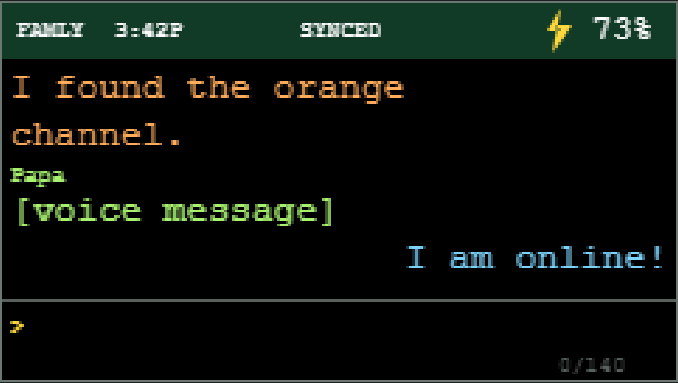
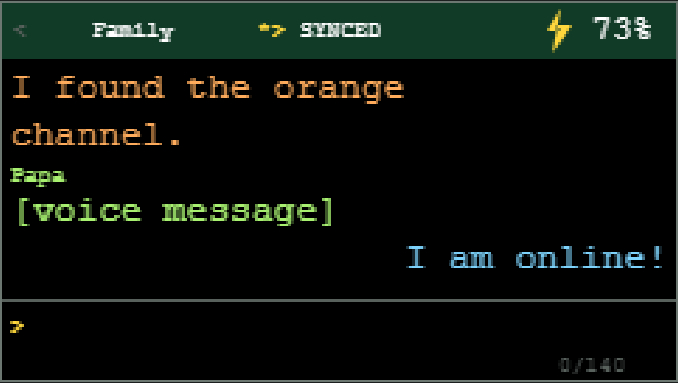
Add Cardputer room flipping and new-message indicators

Changed region(s): [[0.0, 0.0574, 0.2788, 0.1149], [0.3717, 0.0574, 0.4336, 0.1149]]

diff --git a/firmware/src/main.cpp b/firmware/src/main.cpp
@@ -165,7 +165,7 @@ struct ChatLine {
   bool mine;
   bool label;
 };
-struct ChatRoom { String id; String name; };
+struct ChatRoom { String id; String name; int64_t latestMessageId; int64_t seenMessageId; };
 
 uint32_t participantColour(const String &authorId, const String &authorName = "") {
   String identity = authorId + " " + authorName; identity.toLowerCase();
@@ -224,6 +224,7 @@ bool spacePttHeld = false;
 uint32_t spaceReleaseStartedAt = 0;
 bool walkieConnected = false;
 bool walkieInitialized = false;
+bool roomsInitialized = false;
 bool walkieGranted = false;
 bool audioPlaying = false;
 volatile bool messageNotificationPending = false;
@@ -1011,8 +1012,14 @@ void synchronize() {
   if (requestJson("/api/rooms", "GET", "", roomsResponse, roomsStatus) && roomsStatus == 200) {
     JsonDocument roomDocument;
     if (!deserializeJson(roomDocument, roomsResponse)) {
-      rooms.clear();
-      for (JsonObjectConst object : roomDocument["rooms"].as<JsonArrayConst>()) rooms.push_back({String(object["id"] | ""), String(object["name"] | "Room")});
+      std::vector<ChatRoom> nextRooms;
+      for (JsonObjectConst object : roomDocument["rooms"].as<JsonArrayConst>()) {
+        const String id = String(object["id"] | ""); const int64_t latest = object["latest_message_id"] | 0;
+        auto previous = std::find_if(rooms.begin(), rooms.end(), [&](const ChatRoom &room) { return room.id == id; });
+        const int64_t seen = previous != rooms.end() ? previous->seenMessageId : latest;
+        nextRooms.push_back({id, String(object["name"] | "Room"), latest, seen});
+      }
+      rooms = std::move(nextRooms); roomsInitialized = true;
       auto active = std::find_if(rooms.begin(), rooms.end(), [&](const ChatRoom &room) { return room.id == currentRoomId; });
       if (active == rooms.end() && !rooms.empty()) { currentRoomId = rooms[0].id; currentRoomName = rooms[0].name; }
       else if (active != rooms.end()) currentRoomName = active->name;
@@ -1052,6 +1059,8 @@ void synchronize() {
   for (const int64_t id : newlyRead) if (id > 0) postReadReceipt(id);
   networkStatus = "SYNCED"; renderDirty = true;
   initialSyncComplete = true;
+  auto activeRoom = std::find_if(rooms.begin(), rooms.end(), [&](const ChatRoom &room) { return room.id == currentRoomId; });
+  if (activeRoom != rooms.end()) activeRoom->seenMessageId = std::max(activeRoom->latestMessageId, lastServerId);
 }
 
 void networkTask(void *) {
@@ -1114,7 +1123,15 @@ void drawHeader(const char *title) {
 }
 
 void drawChat() {
-  auto &display = uiCanvas; display.fillScreen(TFT_BLACK); drawHeader(currentRoomName.substring(0, 5).c_str());
+  auto &display = uiCanvas; display.fillScreen(TFT_BLACK); drawHeader("");
+  int activeIndex = -1; for (int index = 0; index < static_cast<int>(rooms.size()); index++) if (rooms[index].id == currentRoomId) activeIndex = index;
+  const int leftIndex = rooms.size() > 1 && activeIndex >= 0 ? (activeIndex - 1 + rooms.size()) % rooms.size() : -1;
+  const int rightIndex = rooms.size() > 1 && activeIndex >= 0 ? (activeIndex + 1) % rooms.size() : -1;
+  const bool leftNew = leftIndex >= 0 && rooms[leftIndex].latestMessageId > rooms[leftIndex].seenMessageId;
+  const bool rightNew = rightIndex >= 0 && rooms[rightIndex].latestMessageId > rooms[rightIndex].seenMessageId;
+  display.setTextSize(1); display.setTextColor(leftNew ? TFT_YELLOW : TFT_DARKGREY, TFT_DARKGREEN); display.setCursor(4, 6); display.print(leftNew ? "<*" : "< ");
+  const String roomTitle = currentRoomName.substring(0, 10); display.setTextColor(TFT_WHITE, TFT_DARKGREEN); display.setCursor(50 - roomTitle.length() * 3, 6); display.print(roomTitle);
+  display.setTextColor(rightNew ? TFT_YELLOW : TFT_DARKGREY, TFT_DARKGREEN); display.setCursor(91, 6); display.print(rightNew ? "*>" : " >");
   xSemaphoreTake(stateMutex, portMAX_DELAY);
   const int end = std::max(0, static_cast<int>(messages.size()) - static_cast<int>(historyOffset));
   const int first = std::max(0, end - 10);
@@ -1359,6 +1376,15 @@ void openSelectedMenuItem() {
   renderDirty = true;
 }
 
+void switchRoom(int direction) {
+  if (rooms.size() < 2) return;
+  int active = 0; for (int index = 0; index < static_cast<int>(rooms.size()); index++) if (rooms[index].id == currentRoomId) active = index;
+  const int next = (active + direction + static_cast<int>(rooms.size())) % static_cast<int>(rooms.size());
+  currentRoomId = rooms[next].id; currentRoomName = rooms[next].name; roomSelection = next;
+  messages.clear(); lastServerId = 0; lastReceiptAt = 0; historyOffset = 0; syncOverride = true;
+  walkieSocket.disconnect(); walkieInitialized = false; networkStatus = "SWITCHING"; renderDirty = true;
+}
+
 void handleKeyboard() {
   if (!M5Cardputer.Keyboard.isChange() || !M5Cardputer.Keyboard.isPressed()) return;
   const auto keys = M5Cardputer.Keyboard.keysState();
@@ -1423,7 +1449,8 @@ void handleKeyboard() {
     xSemaphoreGive(stateMutex); playNextTone(); renderDirty = true; return;
   }
   if (goDown) { if (historyOffset > 0) historyOffset--; playNextTone(); renderDirty = true; return; }
-  if (goLeft || goRight) { screenMode = ScreenMode::Menu; playNextTone(); renderDirty = true; return; }
+  if (goLeft) { switchRoom(-1); playNextTone(); return; }
+  if (goRight) { switchRoom(1); playNextTone(); return; }
   playNextTone();
   if (keys.enter) { sendDraft(); return; }
   if (keys.del) { if (!draft.isEmpty()) draft.remove(draft.length() - 1); renderDirty = true; return; }
